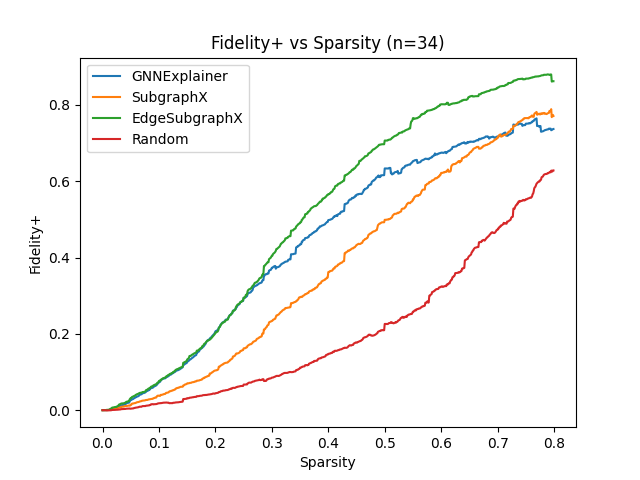
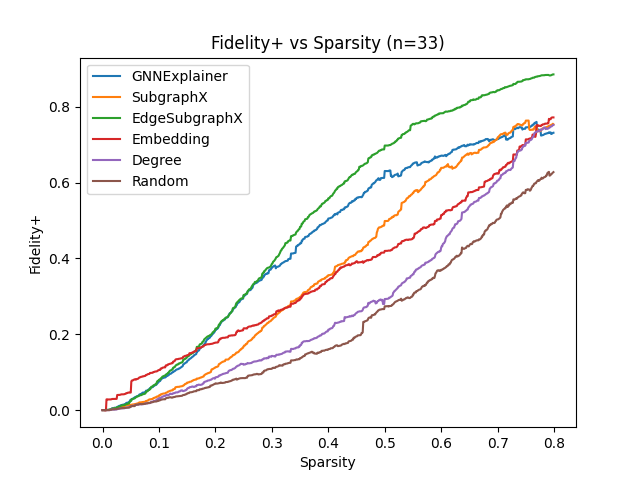
Updated results

diff --git a/src/experiments/vary_sparsity/run_multiple.py b/src/experiments/vary_sparsity/run_multiple.py
@@ -11,6 +11,8 @@ def get_data():
         run_experiment,
         sample_edge_subgraphx,
         sample_gnnexplainer,
+        sample_embedding,
+        sample_degree,
         sample_random,
         sample_subgraphx,
     )
@@ -23,14 +25,28 @@ def get_data():
         test_data.x,
         test_data.edge_index,
         test_data.edge_label_index[:, :50],
-        [sample_gnnexplainer, sample_subgraphx, sample_edge_subgraphx, sample_random],
-        ["GNNExplainer", "SubgraphX", "EdgeSubgraphX", "Random"],
+        [
+            sample_gnnexplainer,
+            sample_subgraphx,
+            sample_edge_subgraphx,
+            sample_embedding,
+            sample_degree,
+            sample_random,
+        ],
+        ["GNNExplainer", "SubgraphX", "EdgeSubgraphX", "Embedding", "Degree", "Random"],
     )
     return all_data
 
 
 def plot_data(all_data):
-    sampler_names = ["GNNExplainer", "SubgraphX", "EdgeSubgraphX", "Random"]
+    sampler_names = [
+        "GNNExplainer",
+        "SubgraphX",
+        "EdgeSubgraphX",
+        "Embedding",
+        "Degree",
+        "Random",
+    ]
 
     count = 0
     x_samples = 1000
@@ -81,6 +97,6 @@ if __name__ == "__main__":
         with open("./results/vary_sparsity/data.json", "w") as f:
             json.dump(all_data, f)
     else:
-        with open("./results/vary_sparsity/data_50.json", "r") as f:
+        with open("./results/vary_sparsity/data.json", "r") as f:
             all_data = json.load(f)
         plot_data(all_data)
